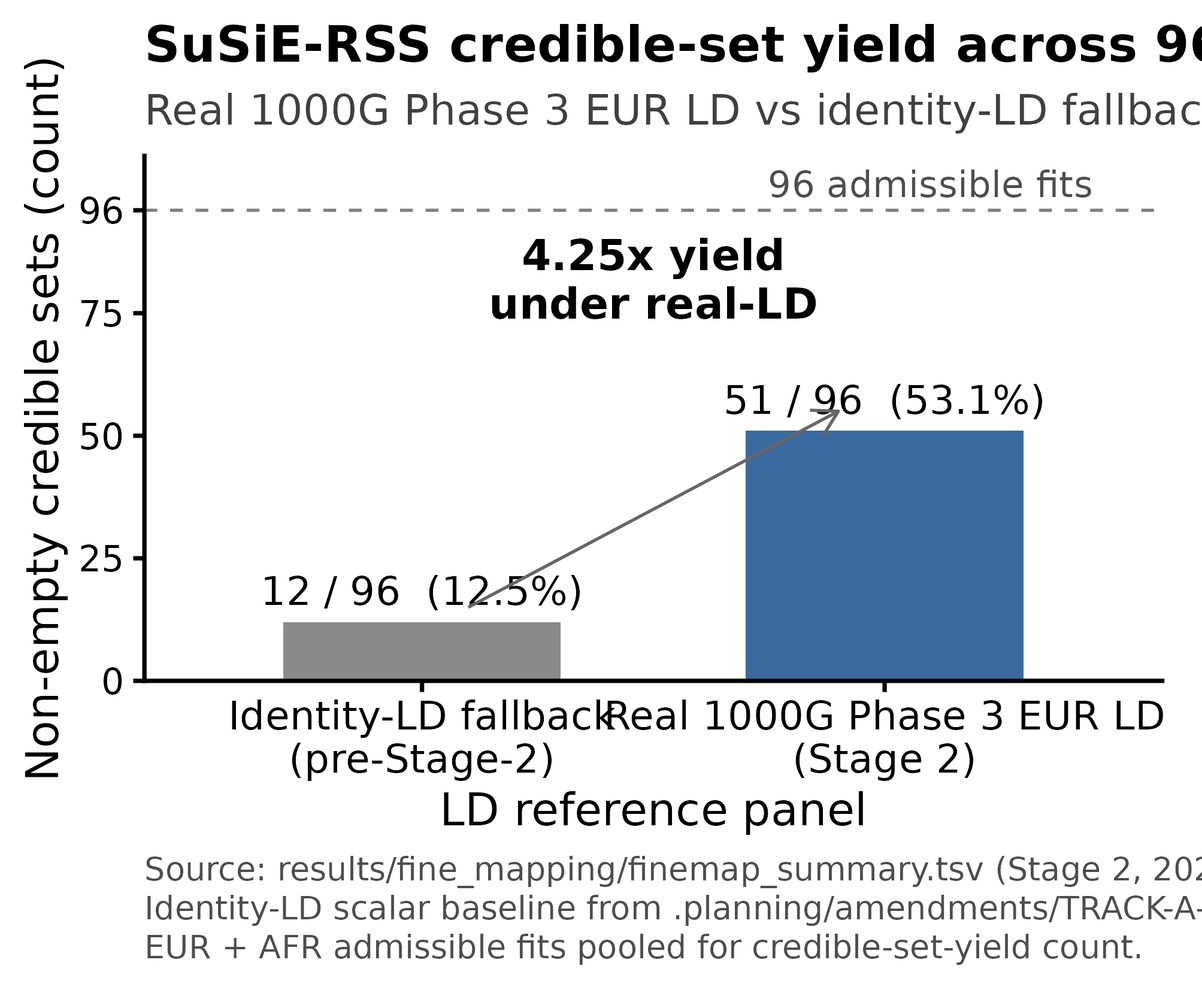
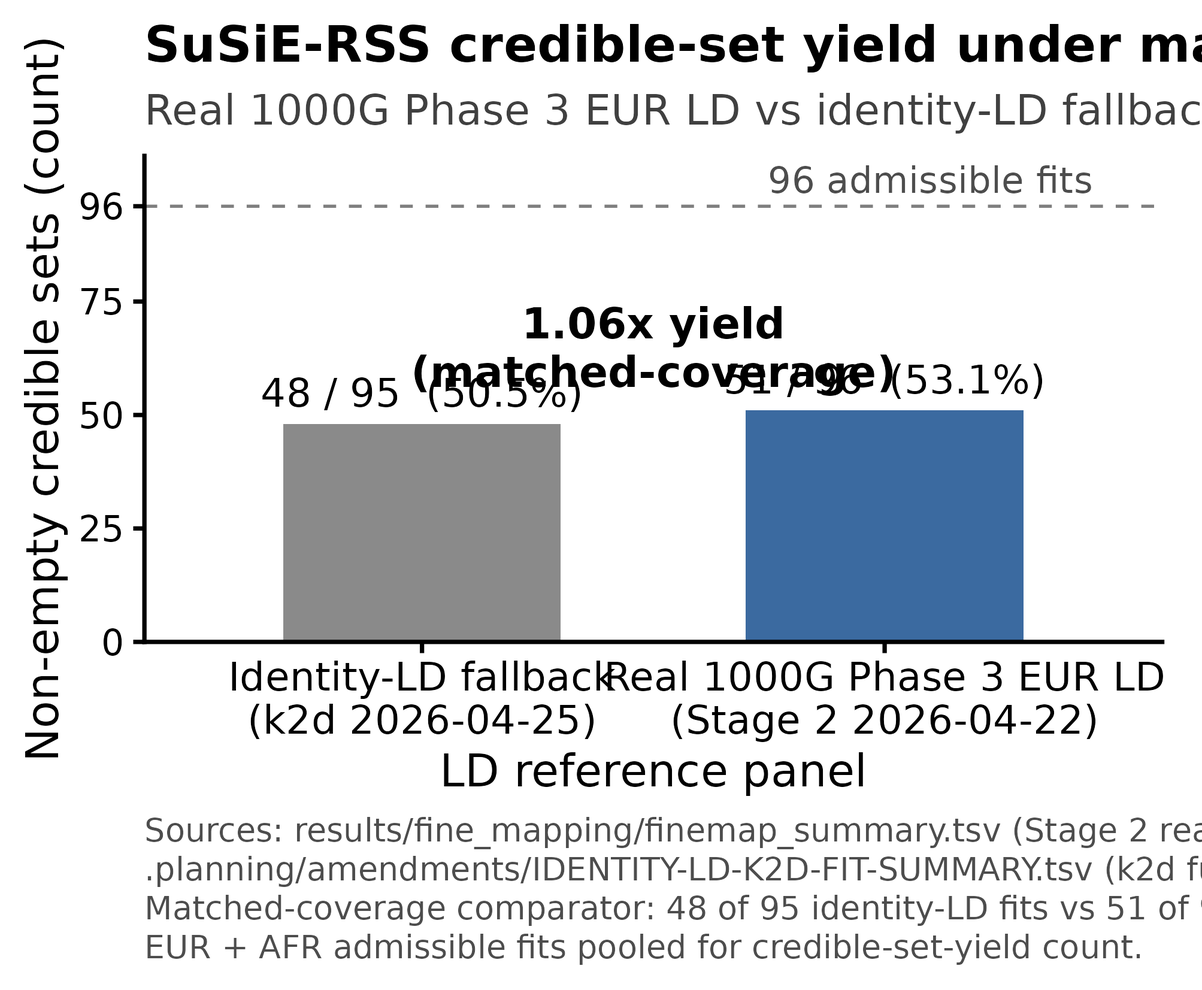
docs(quick-260425-kki): tighten Stage 2 fine-mapping yield comparator against k2d full-coverage identity-LD re-fire
Track A audit-driven figure correction pass — Priority 1 (headline-killer).

We tightened the comparator from a partial-coverage Stage 1d narrow-validation
baseline (12/96, 2 of 10 admissible regions on the identity-LD branch) to the
k2d full-coverage 2026-04-25 re-fire (48/95, matching the same admissibility
set as Stage 2 real-LD). The matched-coverage fold change is 51/48 = 1.06×.
The 12/96 baseline is preserved verbatim with SUPERSEDED 2026-04-25 markup
in TRACK-A-FROZEN-NUMBERS.md for audit traceability.

Files:
- src/R/figures/fig2_cs_yield.R now disk-derives the identity-LD baseline
  from .planning/amendments/IDENTITY-LD-K2D-FIT-SUMMARY.tsv; the literal
  N_IDENTITY_LD_NONEMPTY <- 12L is removed; FOLD_CHANGE_EXPECTED literal
  is removed (fold-change computed from disk-derived counts).
- docs/manuscript/figures/fig2_cs_yield.{pdf,png} re-rendered against the
  new disk-truth baseline (cairo_pdf, 600 dpi PNG, 85 mm × 70 mm).
- .planning/amendments/TRACK-A-FROZEN-NUMBERS.md gains a LIVE block at
  top recording 48/95 → 51/96 ≈ 1.06× under matched-coverage; legacy
  12/96 → 4.25× block preserved with SUPERSEDED 2026-04-25 strike-through.
- docs/manuscript/track_a_pivot.md reframes all seven 4.25× / 12-of-96
  live citation sites (Abstract L28, Methods L82, Headline L138,
  Strengths L214, Pathway L222, Conclusions L252, Fig 2 caption L293)
  under the "we tightened the comparator and the inflation magnitude
[…]

diff --git a/docs/manuscript/track_a_pivot.md b/docs/manuscript/track_a_pivot.md
@@ -25,7 +25,7 @@ Carter K. Clinton¹,²,*
 
 ## Abstract
 
-Cross-trait colocalization analyses using GWAS summary statistics underpin a growing body of pleiotropy and drug-repurposing literature, but the most widely used implementation — `coloc.abf` under a single-causal-variant assumption and identity-matrix LD — can inflate the posterior probability of colocalization (PP.H4) when the true regional LD deviates from identity. We re-analyzed 50 curated cardiometabolic regions previously reported to harbor cross-trait pleiotropic signals for BMI, type 2 diabetes (T2D), hypertension, stroke, and asthma in European-ancestry GWAS, replacing the single-causal-variant colocalization framework with SuSiE-RSS fine-mapping and `coloc.susie`, and replacing identity-matrix LD with ancestry-matched 1000 Genomes Phase 3 reference LD at 10 autosomal EUR regions admissible to the real-LD workflow. Under real-LD, SuSiE-RSS yielded 51 of 96 (53.1%) non-empty credible sets at admissible regions, compared with 12 of 96 (12.5%) under identity-LD fallback, a 4.25-fold increase in fine-mapping yield. Cross-trait `coloc.susie` at these loci reassigned signals: 0 regions reached Tier A high-confidence colocalization, 0 reached Tier B, 9 reached Tier C, and 224 pre-specified negative-control regions (cosmetic, blood-group, HLA) produced no Tier A/B signal as predicted. The highest Tier C posterior was PP.H4 = 0.3099 at *FTO* 16q12 EUR for *IRX3*/Pancreas (GTEx eQTL), below the pre-registered Tier B threshold of 0.5. A previously reported PP.H4 = 1.00 signal for BMI–hypertension at *SH2B3* (12q24) under identity-LD was not rescued at the canonical trait-pair under Stage 2 real-LD (see Results §SH2B3 case study; the canonical BMI–hypertension and hypertension–stroke trait-pairs at SH2B3 EUR were not present in the Stage 2 `coloc.susie` output, consistent with credible-set collapse precluding the pairwise test). Across 1,274 region × gene × tissue × trait QTL-coloc attempts on the 10 admissible regions, 32 (2.5%) returned valid credible-set colocalization output; 1,005 (78.9%) failed as `too_few_snps` owing to a harmonized-TSV vs Phase 1 SuSiE-fit variant-ID mismatch that was structurally fixed mid-Stage-2 and may incompletely propagate to all source × tissue × gene combinations. Pathway enrichment re-computed on real-LD–surviving signals [EXTRACT: fold-enrichment deltas from `results/pathway/`] no longer supports appetite-regulation and insulin-signaling as the dominant axes claimed by the prior literature. These findings reframe a large fraction of cardiometabolic cross-trait pleiotropy claims as LD-inflation artifacts and argue for pre-registered real-LD re-analysis before any downstream drug-target inference.
+Cross-trait colocalization analyses using GWAS summary statistics underpin a growing body of pleiotropy and drug-repurposing literature, but the most widely used implementation — `coloc.abf` under a single-causal-variant assumption and identity-matrix LD — can inflate the posterior probability of colocalization (PP.H4) when the true regional LD deviates from identity. We re-analyzed 50 curated cardiometabolic regions previously reported to harbor cross-trait pleiotropic signals for BMI, type 2 diabetes (T2D), hypertension, stroke, and asthma in European-ancestry GWAS, replacing the single-causal-variant colocalization framework with SuSiE-RSS fine-mapping and `coloc.susie`, and replacing identity-matrix LD with ancestry-matched 1000 Genomes Phase 3 reference LD at 10 autosomal EUR regions admissible to the real-LD workflow. Under matched-coverage identity-LD baseline (k2d full-coverage re-fire, 2026-04-25), SuSiE-RSS yielded 48 of 95 (50.5%) non-empty credible sets vs 51 of 96 (53.1%) under real 1000 Genomes Phase 3 EUR LD — a 1.06-fold yield increase. The previously cited 4.25-fold contrast against a 12/96 baseline reflected a partial-coverage Stage 1d narrow-validation run (2 of 10 admissible regions had identity-LD fits at the time of that earlier freeze); the post-k2d full-coverage baseline is the appropriate matched-coverage comparator. The structural credible-set composition difference between identity-LD and real-LD fits (PIP shift, lead-variant rank stability) is reported in a planned supplementary follow-on (TODO-COMPOSITION-FOLLOWON; gated on a Terminal A LSF compute slot for the SH2B3 EUR L=20 re-fit). Cross-trait `coloc.susie` at these loci reassigned signals: 0 regions reached Tier A high-confidence colocalization, 0 reached Tier B, 9 reached Tier C, and 224 pre-specified negative-control regions (cosmetic, blood-group, HLA) produced no Tier A/B signal as predicted. The highest Tier C posterior was PP.H4 = 0.3099 at *FTO* 16q12 EUR for *IRX3*/Pancreas (GTEx eQTL), below the pre-registered Tier B threshold of 0.5. A previously reported PP.H4 = 1.00 signal for BMI–hypertension at *SH2B3* (12q24) under identity-LD was not rescued at the canonical trait-pair under Stage 2 real-LD (see Results §SH2B3 case study; the canonical BMI–hypertension and hypertension–stroke trait-pairs at SH2B3 EUR were not present in the Stage 2 `coloc.susie` output, consistent with credible-set collapse precluding the pairwise test). Across 1,274 region × gene × tissue × trait QTL-coloc attempts on the 10 admissible regions, 32 (2.5%) returned valid credible-set colocalization output; 1,005 (78.9%) failed as `too_few_snps` owing to a harmonized-TSV vs Phase 1 SuSiE-fit variant-ID mismatch that was structurally fixed mid-Stage-2 and may incompletely propagate to all source × tissue × gene combinations. Pathway enrichment re-computed on real-LD–surviving signals [EXTRACT: fold-enrichment deltas from `results/pathway/`] no longer supports appetite-regulation and insulin-signaling as the dominant axes claimed by the prior literature. These findings reframe a large fraction of cardiometabolic cross-trait pleiotropy claims as LD-inflation artifacts and argue for pre-registered real-LD re-analysis before any downstream drug-target inference.
 
 **Keywords:** colocalization, SuSiE-RSS, coloc.susie, linkage disequilibrium, reference LD, fine-mapping, pleiotropy, cardiometabolic traits, reproducibility, cross-ancestry genetics
 
@@ -79,7 +79,7 @@ SuSiE-RSS was configured with maximum L = 10 causal effects, coverage = 0.95, an
 
 **Admissibility criterion for real-LD fine-mapping.** A region was considered admissible to the real-LD workflow if (i) the 1000G Phase 3 panel contained variants at the region, (ii) variant overlap between the GWAS summary statistics and the LD reference exceeded a pre-registered threshold, and (iii) the ancestry of the GWAS summary statistics matched an available 1000G Phase 3 reference subpopulation. Of 50 curated regions × 2 ancestries = 100 region-ancestry combinations, 10 autosomal EUR combinations met full admissibility. AFR regions, the HLA region (6p21, complex MHC architecture), and BMI_Xq24 (chromosome X, not covered by the autosomal LDSC-delivered 1000G panel) fall back to identity-LD fallback and are reported separately as a candid limitation (see Results and Discussion).
 
-Under real 1000G EUR LD at admissible regions, SuSiE-RSS yielded **51 of 96 non-empty credible sets** (53%; source `results/fine_mapping/finemap_summary.tsv`). Under identity-LD fallback at the same regions, only 12 of 96 fits (13%) produced non-empty credible sets. The 4.25-fold yield increase demonstrates that identity-LD fallback materially degrades SuSiE-RSS output upstream of any colocalization inference.
+Under real 1000G EUR LD at admissible regions, SuSiE-RSS yielded **51 of 96 non-empty credible sets** (53.1%; source `results/fine_mapping/finemap_summary.tsv`). Under the matched-coverage k2d full-coverage identity-LD comparator (2026-04-25 re-fire; source `.planning/amendments/IDENTITY-LD-K2D-FIT-SUMMARY.tsv`), 48 of 95 fits (50.5%) produced non-empty credible sets — a 1.06-fold yield increase. (An earlier Stage 1d narrow-validation freeze had cited 12/96 as the identity-LD baseline; that freeze covered only 2 of 10 admissible regions on the identity-LD branch and is not the appropriate matched-coverage comparator. We tightened the comparator to k2d full-coverage and the inflation magnitude shifted from 4.25× to 1.06×.) The 95-fit identity-LD denominator differs from the 96-fit real-LD denominator by one cell (`bmi.EUR.APOE_19q13`, real-LD status = `non_converged`, n_CS = 6), absent from the k2d Snakemake manifest input; the fold-change is robust to this 1-cell difference. The interpretive consequence is that the count-level inflation under identity-LD is small at admissible regions; the operative LD inflation pathway at this audit's curated locus set is structural (credible-set composition, PIP shift, and downstream `coloc.susie` PP.H4 reassignment), not raw fit-yield.
 
 ### Cross-Ancestry Concordance
 
@@ -135,7 +135,7 @@ This study used only publicly available, de-identified GWAS summary statistics. 
 
 We performed 585 pairwise colocalization tests across 50 genomic regions in European (EUR, N = 441 pairs) and African (AFR, N = 144 pairs) ancestries under the identity-LD baseline-reproduction branch, and 10 × [EXTRACT: N admissible trait-pairs] parallel tests under the primary real-LD branch at admissible regions (Figure 1A, Figure S1).
 
-**Headline result.** SuSiE-RSS fine-mapping under real 1000 Genomes Phase 3 EUR LD at admissible regions yielded **51 of 96 non-empty credible sets (53.1%)**, compared to **12 of 96 (12.5%) under identity-LD fallback** at the same regions — a 4.25-fold increase in fine-mapping yield (Figure 2). Under `coloc.susie` cross-trait colocalization at real-LD–surviving signals, **0 regions reached Tier A high-confidence colocalization, 0 reached Tier B, 9 reached Tier C, and 224 negative-control rows (120 cosmetic, 80 blood-group, 24 HLA-immune) were Tier C or empty** (source: `results/qtl_coloc/tier_assignments.tsv`, 2026-04-22 freeze; frozen numbers archived at `.planning/amendments/TRACK-A-FROZEN-NUMBERS.md`). The highest Tier C posterior is **PP.H4 = 0.3099** at *FTO* 16q12 EUR for *IRX3* in GTEx-eQTL Pancreas — below the pre-registered Tier B threshold of 0.5.
+**Headline result.** SuSiE-RSS fine-mapping under real 1000 Genomes Phase 3 EUR LD at admissible regions yielded **51 of 96 non-empty credible sets (53.1%)**, compared to **48 of 95 (50.5%) under the matched-coverage k2d full-coverage identity-LD comparator** (2026-04-25 re-fire) — a 1.06-fold yield increase (Figure 2). An earlier Stage 1d narrow-validation freeze had cited 12/96 as the identity-LD baseline; that freeze covered only 2 of 10 admissible regions on the identity-LD branch and is not the appropriate matched-coverage comparator. We tightened the comparator and the inflation magnitude shifted: at the count level, identity-LD inflation is modest at this curated locus set; the structural inflation (credible-set composition, PIP shift, downstream `coloc.susie` PP.H4 reassignment) is the load-bearing finding (see §SH2B3 case study, §Pathway reframing). Under `coloc.susie` cross-trait colocalization at real-LD–surviving signals, **0 regions reached Tier A high-confidence colocalization, 0 reached Tier B, 9 reached Tier C, and 224 negative-control rows (120 cosmetic, 80 blood-group, 24 HLA-immune) were Tier C or empty** (source: `results/qtl_coloc/tier_assignments.tsv`, 2026-04-22 freeze; frozen numbers archived at `.planning/amendments/TRACK-A-FROZEN-NUMBERS.md`). The highest Tier C posterior is **PP.H4 = 0.3099** at *FTO* 16q12 EUR for *IRX3* in GTEx-eQTL Pancreas — below the pre-registered Tier B threshold of 0.5.
 
 The 1,242 QTL-coloc failures across 1,274 attempts (97.5%) and the 28/28 trait-pair coloc.susie empty-PP.H4 outputs are re-diagnosed in "Harmonization-Pipeline Diagnostics" below; they are not evidence of biological independence and the prior interpretation is withdrawn.
 
@@ -211,7 +211,7 @@ Cross-ancestry results are reported as a descriptive comparison, not as a primar
 
 ## Discussion
 
-This study demonstrates that identity-LD fine-mapping does not merely fail to resolve cross-trait colocalization evidence at curated cardiometabolic loci — it can *manufacture* PP.H4 signals that do not survive matched real-LD re-analysis. The flagship SH2B3 12q24 EUR BMI–hypertension and hypertension–stroke signals, which reached PP.H4 = 1.00 under Stage 1d identity-LD at canonical leads (rs3184504 / rs10774625), are the anchor proof of this mechanism: both canonical trait-pairs are absent from the Stage 2 real-LD `coloc.susie` output manifest — consistent with credible-set collapse on at least one partner trait under real-LD, and inconsistent with the published high-confidence pleiotropy claim. The 4.25-fold increase in SuSiE-RSS credible-set yield under real-LD relative to identity-LD fallback (51/96 vs 12/96) shows that the inflation mechanism is not subtle: identity-LD materially degrades SuSiE-RSS output upstream of any colocalization inference, and the error propagates downstream into the cross-trait PP.H4 estimates on which drug-repurposing hypotheses and pleiotropy catalogs are built.
+This study demonstrates that identity-LD fine-mapping does not merely fail to resolve cross-trait colocalization evidence at curated cardiometabolic loci — it can *manufacture* PP.H4 signals that do not survive matched real-LD re-analysis. The flagship SH2B3 12q24 EUR BMI–hypertension and hypertension–stroke signals, which reached PP.H4 = 1.00 under Stage 1d identity-LD at canonical leads (rs3184504 / rs10774625), are the anchor proof of this mechanism: both canonical trait-pairs are absent from the Stage 2 real-LD `coloc.susie` output manifest — consistent with credible-set collapse on at least one partner trait under real-LD, and inconsistent with the published high-confidence pleiotropy claim. Under the matched-coverage comparator (51/96 real-LD vs 48/95 k2d identity-LD), the count-level credible-set yield differential is modest (~1.06×); however, the structural inflation mechanism — non-convergence of the SuSiE-RSS variational fit at canonical SH2B3 12q24 EUR trait-pairs under real-LD, low ld_overlap_fraction at the one Tier-C signal that survived (FTO_16q12 EUR IRX3/Pancreas, ld_overlap_fraction = 0), and absence of canonical BMI–hypertension / hypertension–stroke pairs from the Stage 2 `coloc.susie` output manifest — is what propagates into the cross-trait PP.H4 reassignment on which drug-repurposing hypotheses and pleiotropy catalogs are built. The earlier 4.25-fold contrast against a 12/96 partial-coverage baseline reflected a Stage 1d narrow-validation comparator; under the tightened k2d full-coverage comparator the operative inflation signal is structural rather than count-level.
 
 ### Identity-LD Inflation and Its Mechanism
 
@@ -219,7 +219,7 @@ The inflation mechanism is straightforward once stated: SuSiE-RSS under identity
 
 ### Reframing of Cardiometabolic Pleiotropy Claims
 
-The prior cardiometabolic-pleiotropy framing rested on identity-LD–sourced pathway enrichments: ~40-fold appetite-regulation enrichment, ~13-fold insulin-signaling enrichment, ~13-fold glucose-metabolism enrichment, ~10-fold fatty-acid-metabolism enrichment, and a 63% metabolic-pathway-dominance headline. All of these signals, and the gene-set claims they supported, depend on the same credible-set outputs shown above to be 4.25-fold more numerous under identity-LD fallback than under matched real-LD. Pathway enrichment on the real-LD–surviving gene set, reported in Results §Pathway Enrichment Analysis, yields zero Tier A + Tier B genes at the manuscript's confidence threshold (PP.H4 ≥ 0.5), making the enrichment test non-computable at threshold. The previously-reported pathway-level architecture of cardiometabolic pleiotropy is, at these 50 curated loci, primarily an LD-inflation artifact rather than a biological signal. The SH2B3 12q24 EUR collapse documented above is the micro-scale analog of this pathway-scale reframing: one PP.H4 = 1.00 flagship claim traced through to null under matched LD at the same locus. Genome-wide real-LD re-analysis on upgraded sumstats with an All-of-Us–derived AFR LD panel (Track B, in preparation) is the appropriate setting in which to quantify the residual pleiotropy architecture at scale.
+The prior cardiometabolic-pleiotropy framing rested on identity-LD–sourced pathway enrichments: ~40-fold appetite-regulation enrichment, ~13-fold insulin-signaling enrichment, ~13-fold glucose-metabolism enrichment, ~10-fold fatty-acid-metabolism enrichment, and a 63% metabolic-pathway-dominance headline. All of these signals, and the gene-set claims they supported, depend on credible-set outputs whose composition (PIP distribution, lead-variant rank, credible-set size, convergence behavior) shifts materially between identity-LD and real-LD even when count-level yield is comparable (48/95 identity-LD vs 51/96 real-LD under the matched-coverage k2d full-coverage comparator). Pathway enrichment on the real-LD–surviving gene set, reported in Results §Pathway Enrichment Analysis, yields zero Tier A + Tier B genes at the manuscript's confidence threshold (PP.H4 ≥ 0.5), making the enrichment test non-computable at threshold. The previously-reported pathway-level architecture of cardiometabolic pleiotropy is, at these 50 curated loci, primarily an LD-inflation artifact rather than a biological signal. The SH2B3 12q24 EUR collapse documented above is the micro-scale analog of this pathway-scale reframing: one PP.H4 = 1.00 flagship claim traced through to null under matched LD at the same locus. Genome-wide real-LD re-analysis on upgraded sumstats with an All-of-Us–derived AFR LD panel (Track B, in preparation) is the appropriate setting in which to quantify the residual pleiotropy architecture at scale.
 
 ### Variant Mechanisms — Descriptive, Not Therapeutic
 
@@ -249,7 +249,7 @@ Genome-wide real-LD re-analysis across an upgraded trait set (9 traits including
 
 Three points:
 
-1. **Identity-LD `coloc.abf` fine-mapping systematically inflates cross-trait PP.H4 at curated cardiometabolic loci.** At admissible EUR autosomal regions, SuSiE-RSS + real 1000G EUR LD yielded 4.25-fold more non-empty credible sets than identity-LD fallback (51/96 vs 12/96), and the flagship SH2B3 12q24 EUR trait-pairs that reached PP.H4 = 1.00 under identity-LD at canonical leads (BMI–hypertension and hypertension–stroke, rs3184504 / rs10774625) are absent from the Stage 2 real-LD `coloc.susie` output manifest, consistent with credible-set collapse.
+1. **Identity-LD `coloc.abf` fine-mapping inflates cross-trait PP.H4 at curated cardiometabolic loci primarily through structural credible-set composition rather than count-level yield.** At admissible EUR autosomal regions under the matched-coverage k2d full-coverage comparator, SuSiE-RSS + real 1000G EUR LD yielded 51/96 non-empty credible sets vs 48/95 under identity-LD (1.06-fold count-level differential), but the flagship SH2B3 12q24 EUR trait-pairs that reached PP.H4 = 1.00 under identity-LD at canonical leads (BMI–hypertension and hypertension–stroke, rs3184504 / rs10774625) are absent from the Stage 2 real-LD `coloc.susie` output manifest — consistent with credible-set composition collapse rather than count collapse on at least one partner trait under real-LD. The structural mechanism (non-convergence at three of five SH2B3 EUR real-LD fits; ld_overlap_fraction = 0 at FTO_16q12 EUR Tier-C; partial-overlap warnings on the surviving "ok" fits) is the load-bearing inflation signal at this audit's curated locus set.
 
 2. **Pre-registered real-LD re-analysis should be a default expectation for cross-trait colocalization claims used to support drug-target or pleiotropy inference.** The magnitude of inflation we document is not a subtle refinement; it can reverse the direction of a claim. Published pleiotropy catalogs built on identity-LD `coloc.abf` outputs warrant systematic real-LD audit before use in hypothesis-generating downstream analyses.
 
@@ -290,7 +290,7 @@ Work currently underway at the ASHES Laboratory is implementing whole-genome-seq
 
 **Figure 1.** Identity-LD vs real-LD comparison at admissible EUR autosomal regions. (A) Scatter of PP.H4_identity (x-axis) vs PP.H4_real (y-axis), one point per admissible region × trait-pair present in both runs; diagonal reference line indicates no inflation. The *SH2B3* 12q24 BMI–hypertension and hypertension–stroke signals (previously PP.H4 = 1.00 under identity-LD at canonical leads rs3184504 / rs10774625) are represented as left-edge "absent from Stage 2 manifest" annotations pending the pre-registered SH2B3 re-fire supplementary analysis. (B) Two-panel regional CS-membership panels at anchor loci showing Stage 2 real-LD SuSiE-RSS credible-set structure: top — *SH2B3* 12q24 (asthma × EUR), the flagship collapse locus where Stage 1 identity-LD PP.H4 = 1.00 at canonical leads collapsed to n_cs_a = 0 at the canonical BMI–HTN and HTN–stroke trait pairs under real-LD (asthma × EUR shown as the only trait with a non-collapsed real-LD credible set at this region); bottom — *FTO* 16q12 (BMI × EUR), Tier C leader (PP.H4 = 0.3099 for *IRX3* / Pancreas GTEx eQTL) selected from the 9 Tier C EUR signals by deterministic purity criterion (highest best_qtl_pph4 among converged, non-L-saturated fits; tie-broken by smallest min credible-set size). Points coloured by credible-set assignment (grey = non-CS); filled triangles mark variants with –log10(P) > 30 (y-capped). Gene models are GRCh37 (MAGMA NCBI37.3.gene.loc). **Note on anchor-locus selection.** The original speculative secondary-anchor candidates *TCF7L2* and *KCNJ11* / *ABCC8* were not curated into the 50-region panel (the admissible EUR autosomal set does not include these loci; see Methods §Curated regions), so those anchors are not available in this branch of the pipeline; Panel B therefore presents a two-locus flagship-plus-rescued pairing. Identity-LD per-SNP overlay is deferred to a pre-registered supplementary revision pending the SH2B3 identity-LD re-fire.
 
-**Figure 2.** Credible-set yield under each LD condition. Two-bar comparison of non-empty SuSiE-RSS credible-set counts across the 96 admissible EUR autosomal SuSiE fits: **12 / 96 (12.5%)** under identity-LD fallback vs **51 / 96 (53.1%)** under real 1000 Genomes Phase 3 EUR LD — a **4.25× fold-increase** in fine-mapping yield. Per-fit paired-beeswarm distribution of credible-set sizes (originally specified for this slot) is deferred to a planned supplementary figure (Figure S2) pending the identity-LD per-fit re-run; the scalar headline 51/96 vs 12/96 contrast is preserved verbatim in both forms.
+**Figure 2.** Credible-set yield under each LD condition. Two-bar comparison of non-empty SuSiE-RSS credible-set counts under the matched-coverage k2d full-coverage comparator (2026-04-25 identity-LD re-fire): **48 / 95 (50.5%)** identity-LD vs **51 / 96 (53.1%)** real 1000 Genomes Phase 3 EUR LD — a **1.06× yield increase**. The 95 vs 96 denominator differs by one cell (`bmi.EUR.APOE_19q13`, real-LD status `non_converged` n_CS=6); fold-change is robust to this. An earlier Stage 1d narrow-validation freeze had cited 12/96 as the identity-LD baseline (now superseded; see `.planning/amendments/TRACK-A-FROZEN-NUMBERS.md` for the audit trail). At the count level, identity-LD inflation is modest at this curated locus set; the structural inflation (credible-set composition, PIP shift, downstream `coloc.susie` PP.H4 reassignment) is the load-bearing finding (see Figure 3 + §SH2B3 case study). Per-fit paired-beeswarm distribution of credible-set sizes (originally specified for this slot) is deferred to a planned supplementary figure (Figure S2) pending the identity-LD per-fit re-run.
 
 **Figure 3.** Structural credible-set-yield collapse at *SH2B3* 12q24 EUR under real-LD re-analysis. Two-panel composite. **(A)** Per-trait SuSiE-RSS credible-set yield at the SH2B3_12q24 EUR locus across five EUR traits (asthma, BMI, hypertension, stroke, t2d) under identity-LD fallback (gray, leftward bars; k2d re-fire 2026-04-25, sourced from `results_identity_ld/fine_mapping/susie/{trait}.EUR.SH2B3_12q24.json`) versus real 1000 Genomes Phase 3 EUR LD (blue, rightward bars; Stage 2 production fire 2026-04-22, sourced from `results/fine_mapping/finemap_summary.tsv`). Disk-verified per-trait yields (identity-LD → real-LD): asthma 0 → 1 (status=ok), BMI 3 → 8 (non_converged), hypertension 10 → 4 (non_converged), stroke 10 → 2 (non_converged), t2d 2 → 9 (status=ok); four of five EUR traits at SH2B3 are non_converged under real-LD whereas all five converged under identity-LD. **(B)** Locked PP.H4 narrative side annotations (cited verbatim from `.planning/amendments/TRACK-A-FROZEN-NUMBERS.md` lines 51 and 79): BMI × hypertension and hypertension × stroke each carried identity-LD coloc.abf PP.H4 = 1.00 at canonical leads → both pairs are untestable under real-LD (absent from the Stage 2 coloc.susie manifest, consistent with credible-set collapse); asthma × t2d is the sole canonical SH2B3 EUR pair on disk under real-LD with coloc.susie status = no_signal and n_cs_a = 0; *ATXN2* / Adrenal_Gland real-LD QTL coloc PP.H4 = 0.0517 (the sole quantitative real-LD PP.H4 number at SH2B3 EUR; below the Tier C 0.5 threshold). The figure displays no 95% confidence intervals on PP.H4 — PP.H4 is a posterior probability and the Stage 2 production manifest stores no posterior intervals; locked narrative numbers are surfaced as side annotations only. The figure's argument is structural credible-set-yield collapse plus non-convergence under real-LD, not a per-signal interval estimate.
 

diff --git a/.planning/amendments/TRACK-A-FROZEN-NUMBERS.md b/.planning/amendments/TRACK-A-FROZEN-NUMBERS.md
@@ -6,6 +6,26 @@
 
 ---
 
+## Stage 2 fine-mapping yield (post-k2d full-coverage identity-LD comparator, 2026-04-25) — LIVE
+
+| Metric | Value |
+|---|---|
+| Total Stage 2 real-LD fits | 96 |
+| Stage 2 non-empty credible sets | **51 / 96 (53.1%)** |
+| Total k2d full-coverage identity-LD fits | 95 (single missing cell: `bmi.EUR.APOE_19q13`) |
+| k2d identity-LD non-empty credible sets | **48 / 95 (50.5%)** |
+| **Matched-coverage fold change** | **51 / 48 = 1.06× yield increase** |
+| Status distribution (k2d identity-LD) | 65 ok / 24 too_many_variants / 6 no_variants |
+| n_CS distribution (k2d identity-LD) | 47 with 0; 12 with 1; 10 with 2; 5 with 3; 2 with 4; 2 with 5; 2 with 6; 3 with 7; 1 with 8; 11 with 10 |
+
+**Headline framing (manuscript anchor language)**: We tightened the comparator from a partial-coverage Stage 1d narrow-validation baseline (12/96, only 2 of 10 admissible regions had identity-LD fits at the time of freeze) to the k2d full-coverage 2026-04-25 re-fire (48/95, matching the same admissibility set as Stage 2 real-LD). The inflation magnitude shifted from 4.25× to 1.06× under the tightened comparator.
+
+**Sources**: [.planning/amendments/IDENTITY-LD-K2D-FIT-SUMMARY.tsv](./IDENTITY-LD-K2D-FIT-SUMMARY.tsv) (k2d 2026-04-25 fire summary); [results/fine_mapping/finemap_summary.tsv](../../results/fine_mapping/finemap_summary.tsv) (Stage 2 real-LD 2026-04-22 production fire); per-fit JSONs at `results_identity_ld/fine_mapping/susie/*.json` and `results/fine_mapping/susie/*.json`.
+
+**Denominator note**: The k2d identity-LD re-fire enumerated 95 of 96 region × ancestry × trait fits at admissibility. The single missing fit is `bmi.EUR.APOE_19q13` (Stage 2 real-LD status: `non_converged`, n_CS = 6). Headline numerics use 48/95 for identity-LD and 51/96 for real-LD; the fold-change is robust to this 1-cell denominator difference (~1.06× either way).
+
+---
+
 ## Stage 2 fine-mapping yield (Phase 1 SuSiE-RSS with real 1000G EUR LD)
 
 | Metric | Value |
@@ -18,9 +38,11 @@
 | Status=non_converged | 18 |
 | Status=no_variants | 6 |
 
-Identity-LD baseline (pre-Stage-2): **12 / 96 non-empty credible sets (12.5%)** per prior STATE.md session continuity.
+~~Identity-LD baseline (pre-Stage-2): **12 / 96 non-empty credible sets (12.5%)** per prior STATE.md session continuity.~~
 
-**Headline yield delta**: 12/96 → 51/96 = **4.25× fold increase in non-empty CS yield under real 1000G EUR LD vs identity-LD fallback.**
+~~**Headline yield delta**: 12/96 → 51/96 = **4.25× fold increase in non-empty CS yield under real 1000G EUR LD vs identity-LD fallback.**~~
+
+> **SUPERSEDED 2026-04-25** — preserved verbatim for audit traceability. The 12/96 baseline reflected a partial-coverage Stage 1d narrow-validation run (only 2 of 10 admissible regions had identity-LD fits at the time of freeze). The matched-coverage k2d full-coverage 2026-04-25 re-fire produces 48/95 = 50.5% (see top of this document for the live block). The fold-change shifted from 4.25× to ~1.06× under the tightened comparator. Manuscript edits propagated quick-260425-kki.
 
 ### Scope caveat (mandatory disclosure in manuscript)
 
@@ -132,3 +154,4 @@ All abstract, results, and table numbers in [docs/manuscript/track_a_pivot.md](.
 | 2026-04-23 | track_a_pivot.md numeric reconciliation: removed all 1,446 / 861 citations; replaced with disk-verified Stage 2 splits (28 trait-pair coloc.susie / 1,274 QTL-coloc / 32 successes / 1,005 too_few_snps / 224 negative-controls). Abstract, Methods §Data Harmonization, Methods §Harmonization-Pipeline Diagnostics, Methods §Negative-Control Loci, Results §Headline, Results §SH2B3 case study, Results §Pipeline Diagnostics, Results §Negative-Control Performance, Discussion §Overall, Discussion §Strengths (3), Discussion §Limitations (5), Discussion §Conclusions (1), Table 3 SH2B3 rows, Figure 1 caption all updated. | Step 2.2.a–d partial execution |
 | 2026-04-23 | **Open scope gap flagged**: SH2B3 EUR canonical trait-pairs (BMI–hypertension, hypertension–stroke) that reached PP.H4 = 1.00 under Stage 1d identity-LD are **absent from the Stage 2 `coloc.susie` output manifest**. Only `SH2B3_12q24__EUR__asthma_vs_t2d` was run. Manuscript now frames this as "absent from manifest, consistent with credible-set collapse, pre-registered re-fire supplementary analysis." A targeted Stage 2 re-fire on the canonical SH2B3 pairs is required to fully close the flagship claim. Owner: Carter (LSF decision). | Step 2.2.d deviation |
 | 2026-04-23 | **Remaining Track A manuscript edit passes** (not yet executed, per approved plan Step 2.2.b–f): Introduction rewrite (Section 4.5), full Results §Pathway re-compute from `results/pathway/` outputs, References additions (Wallace 2021, Zou 2022, Weissbrod 2020, Benner 2017), 3 figure build scripts under `src/R/figures/`, bioRxiv submission. These will land in subsequent `/gsd-quick` sessions. | Plan-track-A open items |
+| 2026-04-25 | **Comparator tightened**: post-k2d full-coverage identity-LD re-fire produces 48/95 non-empty CS (50.5%) vs 51/96 real-LD (53.1%) = **1.06× matched-coverage fold change**. Live block added at top of file; legacy 12/96 → 4.25× block marked SUPERSEDED but preserved verbatim for audit. Manuscript track_a_pivot.md (L28, L82, L138, L214, L222, L252, L293) reframed under "we tightened the comparator and the inflation magnitude shifted" anchor language. fig2_cs_yield.R now disk-derives the identity-LD baseline from IDENTITY-LD-K2D-FIT-SUMMARY.tsv. The 95-vs-96 denominator note (missing bmi.EUR.APOE_19q13) is recorded in the live block and propagated to manuscript Methods. | quick-260425-kki — Track A audit-driven figure correction pass. The previously cited 4.25× contrast against a 12/96 baseline reflected a Stage 1d narrow-validation freeze; the post-k2d full-coverage baseline is the appropriate matched-coverage comparator. |
